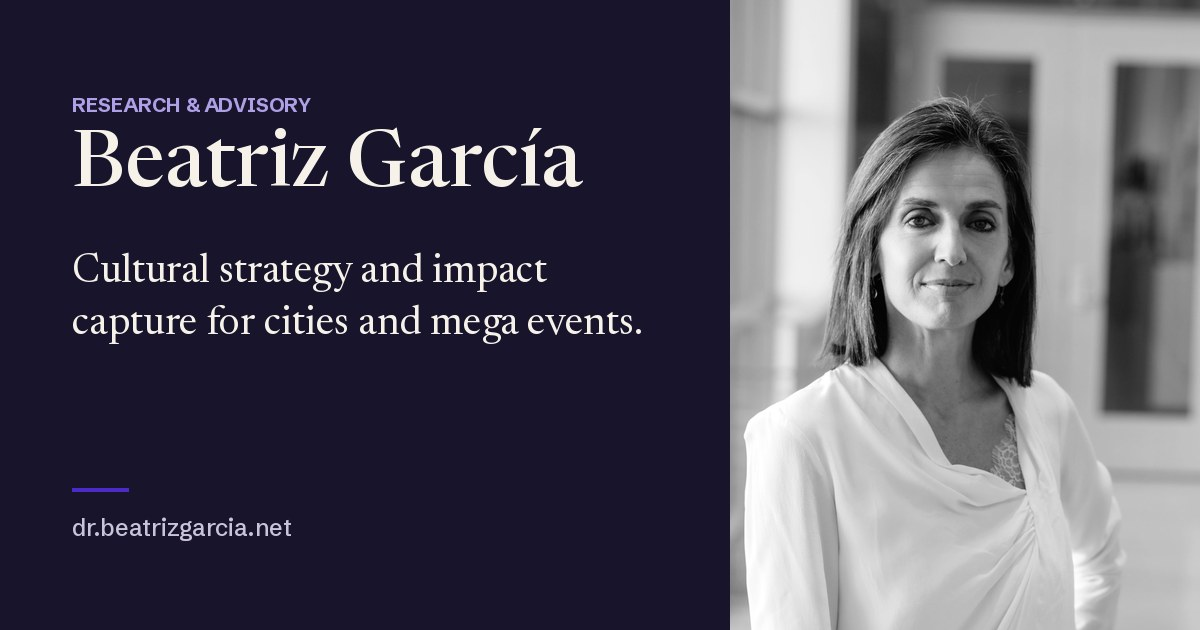
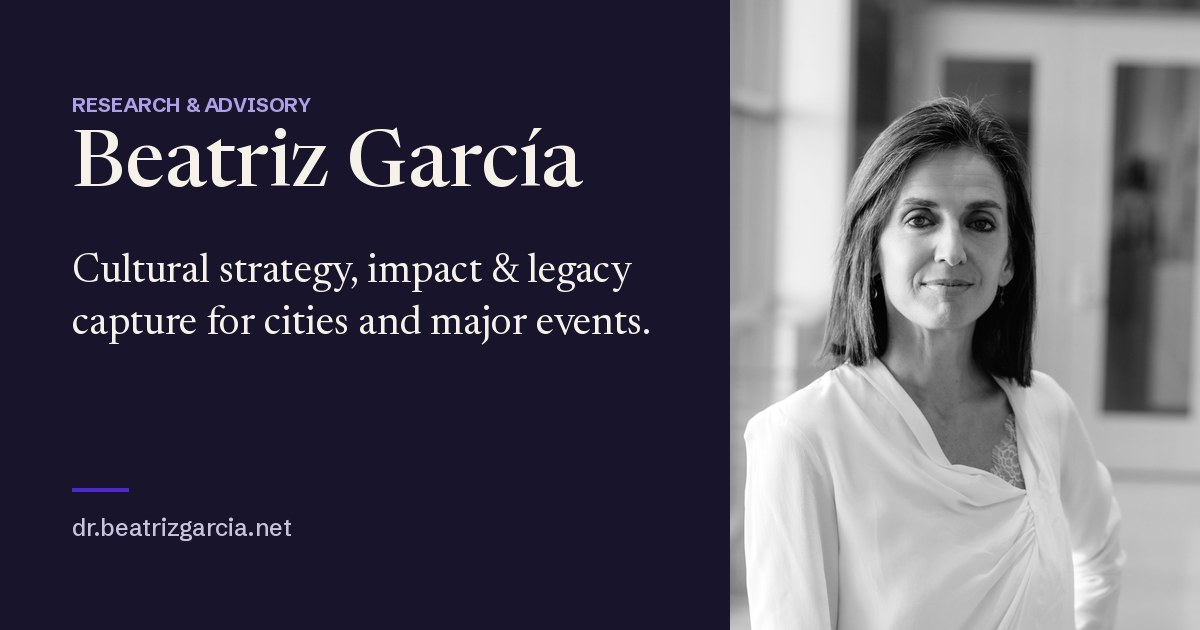
Update positioning line, ECoC host cities and share card

Changed region(s): [[0.2775, 0.3921, 0.5242, 0.4524], [0.37, 0.4825, 0.555, 0.5429]]

diff --git a/speaking/index.html b/speaking/index.html
@@ -16,7 +16,7 @@
 <meta property="og:image" content="https://dr.beatrizgarcia.net/assets/img/og-card.jpg">
 <meta property="og:image:width" content="1200">
 <meta property="og:image:height" content="630">
-<meta property="og:image:alt" content="Dr Beatriz García, Research &amp; Advisory: cultural strategy and impact capture for cities and mega events">
+<meta property="og:image:alt" content="Dr Beatriz García, Research &amp; Advisory: cultural strategy, impact &amp; legacy capture for cities and major events">
 <meta name="twitter:card" content="summary_large_image">
 <meta name="theme-color" content="#17142B">
 <link rel="icon" href="../assets/img/favicon.svg" type="image/svg+xml">
@@ -85,11 +85,11 @@
 <div class="wrap stack stack--lg">
 <div class="rule-head"><h2 id="venues-title" class="rule-title">Where Beatriz has spoken</h2></div>
 <div class="venues">
-<div><h3>European and international institutions</h3><p class="serif-list">European Parliament · European Commission · Council of Europe · EU Council Presidencies of Greece and Hungary · UNESCO Creative Cities Network · Mondiacult 2025 · UCLG Culture Summit · IFACCA World Summit on Arts and Culture · Ibero-American General Secretariat · British Council · Europe House Belgrade · UK Department for Culture, Media and Sport · Scottish Government · Generalitat de Catalunya · Global Summit on the Creative Economy, Turkish Government and EU</p></div>
-<div><h3>Olympic and major events</h3><p class="serif-list">International Olympic Committee · International Olympic Academy, Ancient Olympia · National Olympic Academies · Olympic Games Research Fora · London 2012 Organising Committee · Commonwealth Games · World Expo · Universal Forum of Cultures · World Design Capitals · Art Biennials · SportAccord · Host City conferences</p></div>
-<div><h3>Capitals of Culture</h3><p class="serif-list"><span class="sub">Networks</span>ECoC Family · Culture Next · European Network of Capitals of Culture</p><p class="serif-list"><span class="sub">Editions</span>Liverpool&nbsp;2008 · Stavanger&nbsp;2008 · Vilnius&nbsp;2009 · Istanbul&nbsp;2010 · Essen for the Ruhr&nbsp;2010 · Aarhus&nbsp;2017 · Kaunas&nbsp;2022 · Tartu&nbsp;2024 · and Hull, UK City of Culture&nbsp;2017</p></div>
-<div><h3>Culture, cities and festivals</h3><p class="serif-list">Salzburg Global Seminar · Victoria and Albert Museum · Royal Society of Arts · British Academy · Edinburgh International Culture Summit · Creative Prague · LUCI, Fête des Lumières · Forum d'Avignon · Ravello Lab, A Soul for Europe · Culture Action Europe · Eurocities · ENCATC · European Broadcasting Union · Battle of Ideas · Westminster Media Forum · Royal Town Planning Institute · UK Evaluation Society · International Festival of Business, Liverpool · A to Z Sofia Jazz Festival · ArtGames, Montreal · VisitScotland National Events Conference</p></div>
-<div><h3>Universities</h3><p class="serif-list">Ohio State University · University of Oxford · University of Chicago · University of Toronto · University of Lausanne · University of São Paulo · Birkbeck, University of London · University of East London · University of Greenwich · University of Liverpool · Liverpool John Moores University · University of Stavanger · University of Jyväskylä · Université de Grenoble · National Taiwan Normal University · Kinneret College</p></div>
+<div><h3>European and international institutions</h3><p class="serif-list">European Parliament&nbsp;· European Commission&nbsp;· Council of Europe&nbsp;· EU Council Presidencies of Greece and Hungary&nbsp;· UNESCO Creative Cities Network&nbsp;· Mondiacult 2025&nbsp;· UCLG Culture Summit&nbsp;· IFACCA World Summit on Arts and Culture&nbsp;· Ibero-American General Secretariat&nbsp;· British Council&nbsp;· Europe House Belgrade&nbsp;· UK Department for Culture, Media and Sport&nbsp;· Scottish Government&nbsp;· Generalitat de Catalunya&nbsp;· Global Summit on the Creative Economy, Turkish Government and EU</p></div>
+<div><h3>Olympic and major events</h3><p class="serif-list">International Olympic Committee&nbsp;· International Olympic Academy, Ancient Olympia&nbsp;· National Olympic Academies&nbsp;· Olympic Games Research Fora&nbsp;· London 2012 Organising Committee&nbsp;· Commonwealth Games&nbsp;· World Expo&nbsp;· Universal Forum of Cultures&nbsp;· World Design Capitals&nbsp;· Art Biennials&nbsp;· SportAccord&nbsp;· Host City conferences</p></div>
+<div><h3>European Capitals of Culture</h3><p class="serif-list"><span class="sub">Networks</span>ECoC Family&nbsp;· Culture Next&nbsp;· European Network of Capitals of Culture</p><p class="serif-list"><span class="sub">Editions</span><span class="note">Most ECoC host cities since 2006, including preparation, event and legacy years</span>Glasgow&nbsp;1990&nbsp;· Brussels&nbsp;&amp;&nbsp;Helsinki&nbsp;2000&nbsp;· Genoa&nbsp;&amp;&nbsp;Lille&nbsp;2004&nbsp;· Liverpool&nbsp;&amp;&nbsp;Stavanger&nbsp;2008&nbsp;· Vilnius&nbsp;&amp;&nbsp;Linz&nbsp;2009&nbsp;· Istanbul&nbsp;&amp;&nbsp;Essen for the Ruhr&nbsp;2010&nbsp;· Marseille-Provence&nbsp;2013&nbsp;· Umeå&nbsp;2014&nbsp;· Aarhus&nbsp;2017&nbsp;· Valletta&nbsp;2018&nbsp;· Rijeka&nbsp;&amp;&nbsp;Galway&nbsp;2020&nbsp;· Kaunas&nbsp;2022&nbsp;· Tartu&nbsp;&amp;&nbsp;Bodø&nbsp;2024&nbsp;· Nova&nbsp;Gorica&nbsp;&amp;&nbsp;Chemnitz&nbsp;2025&nbsp;· Oulu&nbsp;2026&nbsp;· Évora&nbsp;2027&nbsp;· Lublin&nbsp;2029&nbsp;· Nikšić&nbsp;2030&nbsp;· and Hull, UK City of Culture&nbsp;2017</p></div>
+<div><h3>Culture, cities and festivals</h3><p class="serif-list">Salzburg Global Seminar&nbsp;· Victoria and Albert Museum&nbsp;· Royal Society of Arts&nbsp;· British Academy&nbsp;· Edinburgh International Culture Summit&nbsp;· Creative Prague&nbsp;· LUCI, Fête des Lumières&nbsp;· Forum d'Avignon&nbsp;· Ravello Lab, A Soul for Europe&nbsp;· Culture Action Europe&nbsp;· Eurocities&nbsp;· ENCATC&nbsp;· European Broadcasting Union&nbsp;· Battle of Ideas&nbsp;· Westminster Media Forum&nbsp;· Royal Town Planning Institute&nbsp;· UK Evaluation Society&nbsp;· International Festival of Business, Liverpool&nbsp;· A to Z Sofia Jazz Festival&nbsp;· ArtGames, Montreal&nbsp;· VisitScotland National Events Conference</p></div>
+<div><h3>Universities</h3><p class="serif-list">Ohio State University&nbsp;· University of Oxford&nbsp;· University of Chicago&nbsp;· University of Toronto&nbsp;· University of Lausanne&nbsp;· University of São Paulo&nbsp;· Birkbeck, University of London&nbsp;· University of East London&nbsp;· University of Greenwich&nbsp;· University of Liverpool&nbsp;· Liverpool John Moores University&nbsp;· University of Stavanger&nbsp;· University of Jyväskylä&nbsp;· Université de Grenoble&nbsp;· National Taiwan Normal University&nbsp;· Kinneret College</p></div>
 <div class="coming"><h3>Coming up</h3><p><a class="ext" href="https://www.culturesummitabudhabi.com/en" rel="noopener" target="_blank">Culture Summit Abu Dhabi</a></p><p class="small" style="font-family:var(--sans);font-size:15px">8–10 December 2026</p></div>
 </div>
 </div>

diff --git a/index.html b/index.html
@@ -3,20 +3,20 @@
 <head>
 <meta charset="utf-8">
 <meta name="viewport" content="width=device-width, initial-scale=1">
-<title>Dr Beatriz García — Cultural strategy and impact for cities and mega events</title>
+<title>Dr Beatriz García — Cultural strategy, impact &amp; legacy capture for cities and major events</title>
 <meta name="description" content="Dr Beatriz García advises cities, governments and organising committees on cultural strategy, impact capture and legacy, from the Olympic Games to the European Capitals of Culture.">
 <link rel="canonical" href="https://dr.beatrizgarcia.net/">
 <meta name="author" content="Dr Beatriz García">
 <meta property="og:type" content="website">
 <meta property="og:site_name" content="Dr Beatriz García">
-<meta property="og:title" content="Dr Beatriz García — Cultural strategy and impact for cities and mega events">
+<meta property="og:title" content="Dr Beatriz García — Cultural strategy, impact &amp; legacy capture for cities and major events">
 <meta property="og:description" content="Dr Beatriz García advises cities, governments and organising committees on cultural strategy, impact capture and legacy, from the Olympic Games to the European Capitals of Culture.">
 <meta property="og:url" content="https://dr.beatrizgarcia.net/">
 <meta property="og:locale" content="en_GB">
 <meta property="og:image" content="https://dr.beatrizgarcia.net/assets/img/og-card.jpg">
 <meta property="og:image:width" content="1200">
 <meta property="og:image:height" content="630">
-<meta property="og:image:alt" content="Dr Beatriz García, Research &amp; Advisory: cultural strategy and impact capture for cities and mega events">
+<meta property="og:image:alt" content="Dr Beatriz García, Research &amp; Advisory: cultural strategy, impact &amp; legacy capture for cities and major events">
 <meta name="twitter:card" content="summary_large_image">
 <meta name="theme-color" content="#17142B">
 <link rel="icon" href="assets/img/favicon.svg" type="image/svg+xml">
@@ -61,7 +61,7 @@
 <div class="wrap hero-grid">
 <div class="hero-copy">
 <p class="eyebrow">Dr Beatriz García</p>
-<h1 id="hero-title" class="display">Cultural strategy and impact capture for cities and mega events.</h1>
+<h1 id="hero-title" class="display">Cultural strategy, impact &amp; legacy capture for cities and major events.</h1>
 <p class="lead">From the legacy of Barcelona 1992 to Milano Cortina 2026, and from the legacy of Glasgow 1990 to Nikšić 2030: 27 years at the centre of the Olympic Games and the European Capitals of Culture.</p>
 <p class="triad"><a href="#academic">Academic</a><span aria-hidden="true">·</span><a href="#advisor">Advisor</a><span aria-hidden="true">·</span><a href="#communicator">Communicator</a></p>
 <div class="btns"><a class="btn btn--light" href="speaking/index.html">Invite Beatriz to speak</a><a class="btn btn--ghost-light" href="advisory/index.html">Commission advice</a></div>

diff --git a/about/press/index.html b/about/press/index.html
@@ -16,7 +16,7 @@
 <meta property="og:image" content="https://dr.beatrizgarcia.net/assets/img/og-card.jpg">
 <meta property="og:image:width" content="1200">
 <meta property="og:image:height" content="630">
-<meta property="og:image:alt" content="Dr Beatriz García, Research &amp; Advisory: cultural strategy and impact capture for cities and mega events">
+<meta property="og:image:alt" content="Dr Beatriz García, Research &amp; Advisory: cultural strategy, impact &amp; legacy capture for cities and major events">
 <meta name="twitter:card" content="summary_large_image">
 <meta name="theme-color" content="#17142B">
 <link rel="icon" href="../../assets/img/favicon.svg" type="image/svg+xml">
@@ -90,7 +90,7 @@
 <dl class="facts">
 <div><dt>Name</dt><dd>Dr Beatriz García</dd></div>
 <div><dt>Practice</dt><dd>Beatriz García Research &amp; Advisory, independent researcher and strategic advisor since 2023</dd></div>
-<div><dt>Focus</dt><dd>Cultural strategy and impact capture for cities and mega events</dd></div>
+<div><dt>Focus</dt><dd>Cultural strategy, impact &amp; legacy capture for cities and major events</dd></div>
 <div><dt>Olympic Games</dt><dd>Directed the Cultural Olympiad evaluations for London 2012 and Paris 2024 · Editor, Milano Cortina 2026 Cultural Olympiad report · Member, IOC Culture and Olympic Heritage Commission (2015–2026)</dd></div>
 <div><dt>European Capitals of Culture</dt><dd>Director, Impacts 08 (Liverpool 2008) · European Parliament study of three decades of the programme (2013) · Member, chair and rapporteur, European Capital of Culture Selection &amp; Monitoring Panel (2017–2022) · Chair, international board of Monitor 2024 (Bodø 2024)</dd></div>
 <div><dt>Current roles</dt><dd>Culture Next Policy Task Force · Associate Director, Centre for Cultural Value · Chair, Walk the Plank · Senior Research Fellow, Mega Events &amp; Cultural Policy, University of Liverpool</dd></div>

diff --git a/assets/css/site.css b/assets/css/site.css
@@ -64,6 +64,7 @@ em{font-style:italic}
 .dark .eyebrow{color:var(--accent-light)}
 .display{font-family:var(--serif);font-weight:500;letter-spacing:-.022em;line-height:1.02;text-wrap:balance}
 h1.display{font-size:clamp(42px,5.4vw,78px)}
+.hero-copy h1.display{font-size:clamp(40px,4.6vw,66px)}
 h1.display--page{font-size:clamp(40px,4.8vw,70px)}
 .h2{font-family:var(--serif);font-weight:500;font-size:clamp(34px,3.8vw,54px);line-height:1.06;letter-spacing:-.018em;text-wrap:balance}
 .h2--sm{font-size:clamp(30px,3.3vw,46px)}
@@ -303,6 +304,7 @@ a.card:hover{border-color:var(--accent)}
 .venues .serif-list + .serif-list{margin-top:14px}
 .venues .coming{align-self:start}
 .venues .sub{display:block;font-family:var(--sans);font-size:12px;font-weight:700;letter-spacing:.14em;text-transform:uppercase;color:var(--muted);margin-bottom:4px}
+.venues .note{display:block;font-family:var(--sans);font-size:15px;line-height:1.5;color:var(--muted);margin-bottom:8px}
 .coming{background:var(--ink);color:var(--on-dark);padding:22px}
 .coming h3{color:var(--accent-light)}
 .coming p{font-family:var(--serif);font-size:24px;line-height:1.3}

diff --git a/about/index.html b/about/index.html
@@ -16,7 +16,7 @@
 <meta property="og:image" content="https://dr.beatrizgarcia.net/assets/img/og-card.jpg">
 <meta property="og:image:width" content="1200">
 <meta property="og:image:height" content="630">
-<meta property="og:image:alt" content="Dr Beatriz García, Research &amp; Advisory: cultural strategy and impact capture for cities and mega events">
+<meta property="og:image:alt" content="Dr Beatriz García, Research &amp; Advisory: cultural strategy, impact &amp; legacy capture for cities and major events">
 <meta name="twitter:card" content="summary_large_image">
 <meta name="theme-color" content="#17142B">
 <link rel="icon" href="../assets/img/favicon.svg" type="image/svg+xml">

diff --git a/advisory/index.html b/advisory/index.html
@@ -16,7 +16,7 @@
 <meta property="og:image" content="https://dr.beatrizgarcia.net/assets/img/og-card.jpg">
 <meta property="og:image:width" content="1200">
 <meta property="og:image:height" content="630">
-<meta property="og:image:alt" content="Dr Beatriz García, Research &amp; Advisory: cultural strategy and impact capture for cities and mega events">
+<meta property="og:image:alt" content="Dr Beatriz García, Research &amp; Advisory: cultural strategy, impact &amp; legacy capture for cities and major events">
 <meta name="twitter:card" content="summary_large_image">
 <meta name="theme-color" content="#17142B">
 <link rel="icon" href="../assets/img/favicon.svg" type="image/svg+xml">

diff --git a/contact/index.html b/contact/index.html
@@ -16,7 +16,7 @@
 <meta property="og:image" content="https://dr.beatrizgarcia.net/assets/img/og-card.jpg">
 <meta property="og:image:width" content="1200">
 <meta property="og:image:height" content="630">
-<meta property="og:image:alt" content="Dr Beatriz García, Research &amp; Advisory: cultural strategy and impact capture for cities and mega events">
+<meta property="og:image:alt" content="Dr Beatriz García, Research &amp; Advisory: cultural strategy, impact &amp; legacy capture for cities and major events">
 <meta name="twitter:card" content="summary_large_image">
 <meta name="theme-color" content="#17142B">
 <link rel="icon" href="../assets/img/favicon.svg" type="image/svg+xml">

diff --git a/euphoric-cities/index.html b/euphoric-cities/index.html
@@ -16,7 +16,7 @@
 <meta property="og:image" content="https://dr.beatrizgarcia.net/assets/img/og-card.jpg">
 <meta property="og:image:width" content="1200">
 <meta property="og:image:height" content="630">
-<meta property="og:image:alt" content="Dr Beatriz García, Research &amp; Advisory: cultural strategy and impact capture for cities and mega events">
+<meta property="og:image:alt" content="Dr Beatriz García, Research &amp; Advisory: cultural strategy, impact &amp; legacy capture for cities and major events">
 <meta name="twitter:card" content="summary_large_image">
 <meta name="theme-color" content="#17142B">
 <link rel="icon" href="../assets/img/favicon.svg" type="image/svg+xml">

diff --git a/media/index.html b/media/index.html
@@ -16,7 +16,7 @@
 <meta property="og:image" content="https://dr.beatrizgarcia.net/assets/img/og-card.jpg">
 <meta property="og:image:width" content="1200">
 <meta property="og:image:height" content="630">
-<meta property="og:image:alt" content="Dr Beatriz García, Research &amp; Advisory: cultural strategy and impact capture for cities and mega events">
+<meta property="og:image:alt" content="Dr Beatriz García, Research &amp; Advisory: cultural strategy, impact &amp; legacy capture for cities and major events">
 <meta name="twitter:card" content="summary_large_image">
 <meta name="theme-color" content="#17142B">
 <link rel="icon" href="../assets/img/favicon.svg" type="image/svg+xml">

diff --git a/research/index.html b/research/index.html
@@ -16,7 +16,7 @@
 <meta property="og:image" content="https://dr.beatrizgarcia.net/assets/img/og-card.jpg">
 <meta property="og:image:width" content="1200">
 <meta property="og:image:height" content="630">
-<meta property="og:image:alt" content="Dr Beatriz García, Research &amp; Advisory: cultural strategy and impact capture for cities and mega events">
+<meta property="og:image:alt" content="Dr Beatriz García, Research &amp; Advisory: cultural strategy, impact &amp; legacy capture for cities and major events">
 <meta name="twitter:card" content="summary_large_image">
 <meta name="theme-color" content="#17142B">
 <link rel="icon" href="../assets/img/favicon.svg" type="image/svg+xml">
